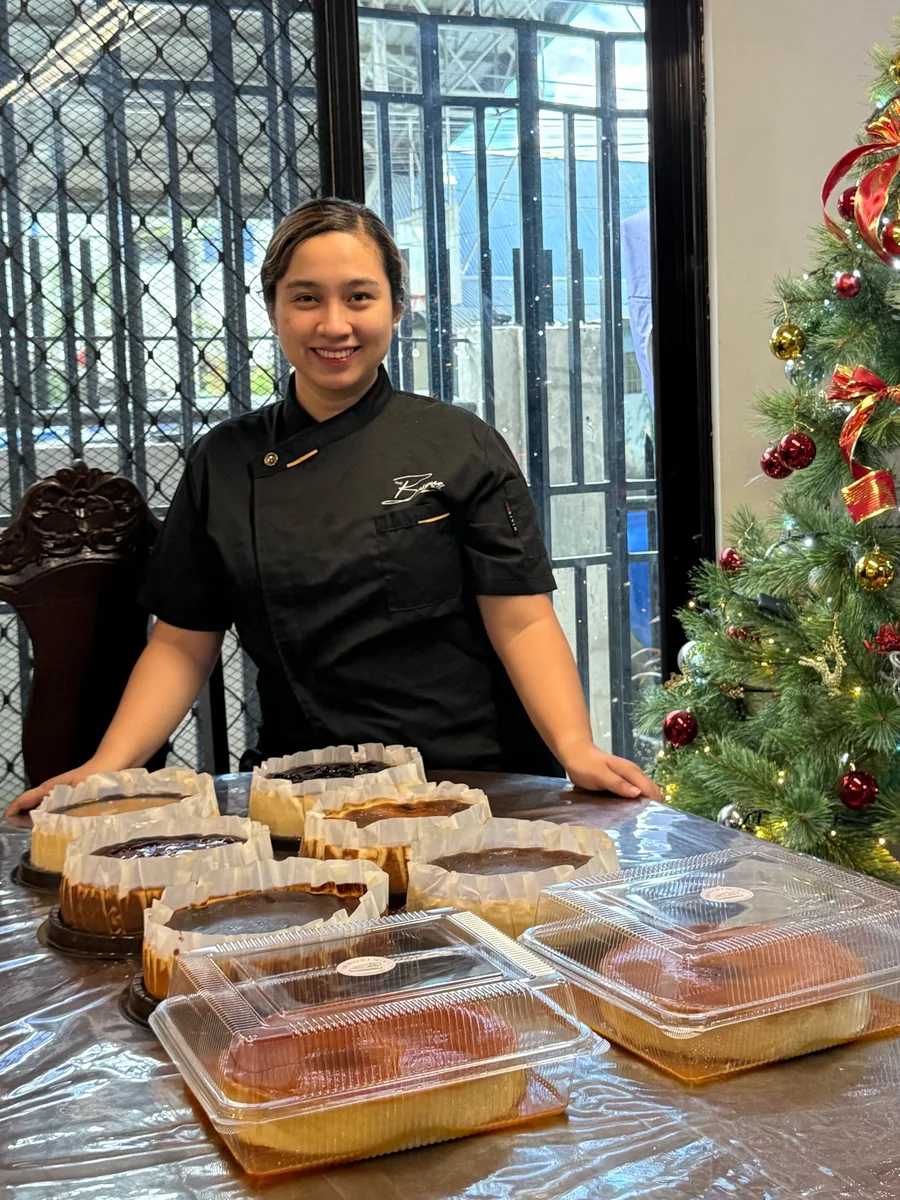
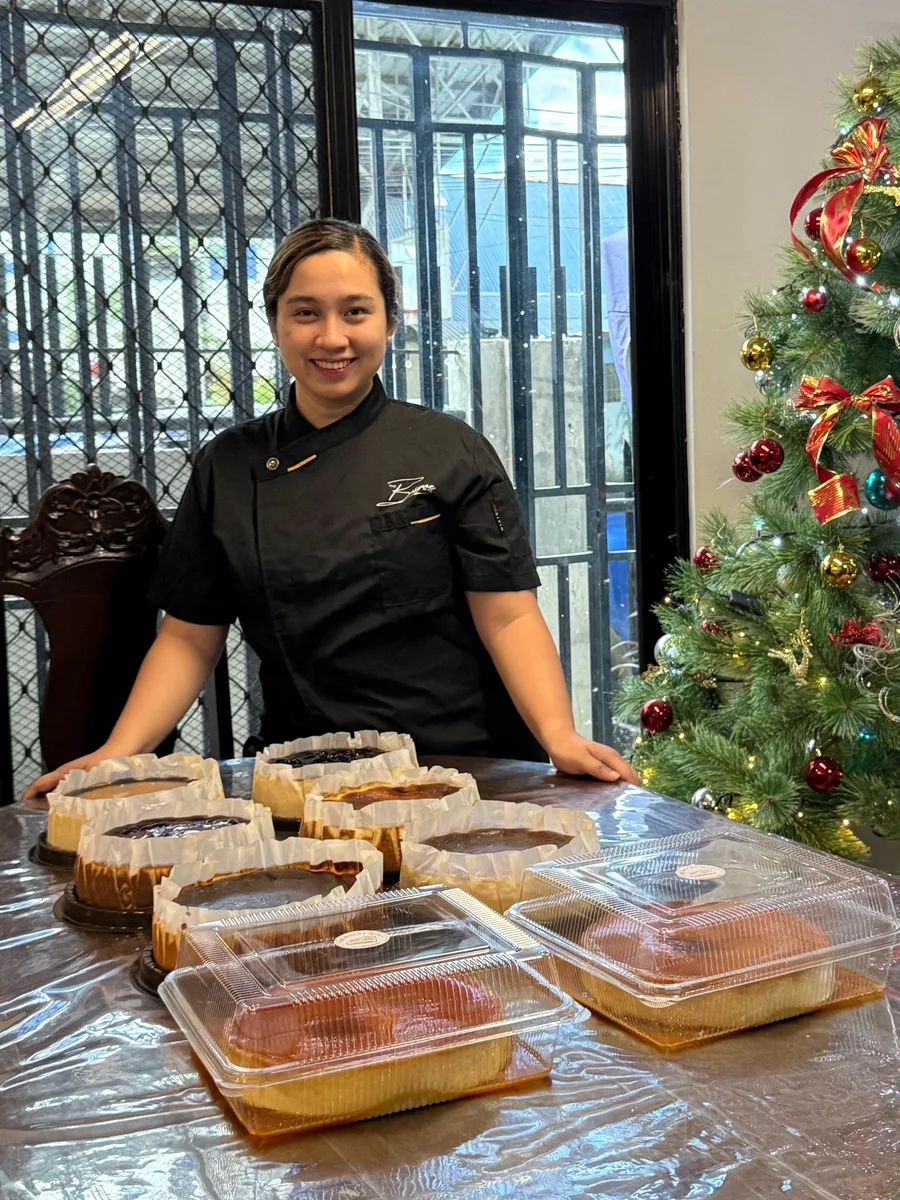
Our Story card: back to Carlo's approved crop (32f115f)

diff --git a/index.html b/index.html
@@ -170,7 +170,7 @@
 
     <section class="story-teaser section-space" id="story" aria-labelledby="story-title" data-reveal>
       <div class="wrap story-inner">
-        <img src="assets/story/christmas-2025-card.webp?v=3" alt="Donna with Christmas cheesecake orders beside the tree" width="600" height="800" loading="lazy">
+        <img src="assets/story/christmas-2025-card.webp?v=4" alt="Donna with Christmas cheesecake orders beside the tree" width="600" height="800" loading="lazy">
         <div>
           <p class="eyebrow">OUR STORY</p>
           <h2 id="story-title">From one shared tent to <em>the Davao Region</em></h2>
